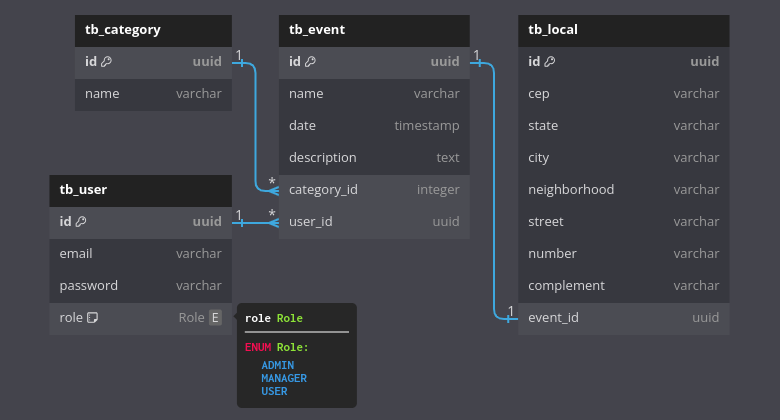
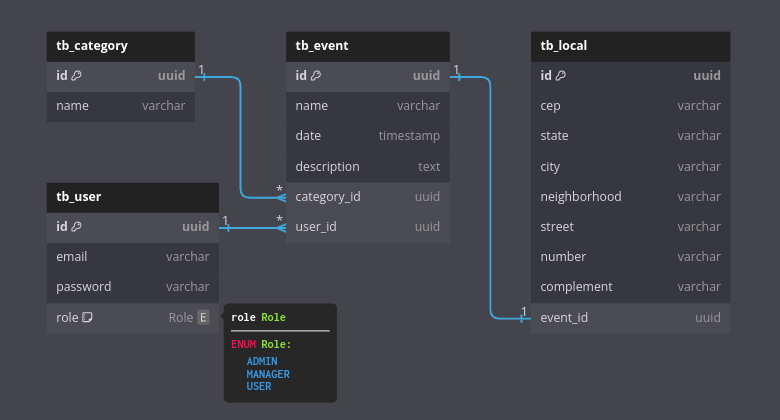
fix typo on ER model & add login doc

diff --git a/README.md b/README.md
@@ -294,6 +294,31 @@ locais e datas.
      | **400** | Requisição contém valores inválidos |
      | **422** | Requisição contém valores inválidos |
 
+ - Login
+
+   - método HTTP: **POST**
+
+   - endpoint:
+
+         /login
+
+   - formato da requisição:
+
+     ```json
+     {
+        "email": "user@email.com",
+        "password": "12345"
+     }
+     ```
+
+   - retorno:
+
+     | Status  | Resultado |
+     |:-------:|:---------:|
+     | **200** | Operação bem sucedida               |
+     | **401** | Requisição contém valores inválidos |
+     | **422** | Requisição contém valores inválidos |
+
  - Buscar usuário cadastrado
 
    - método HTTP: **GET**
